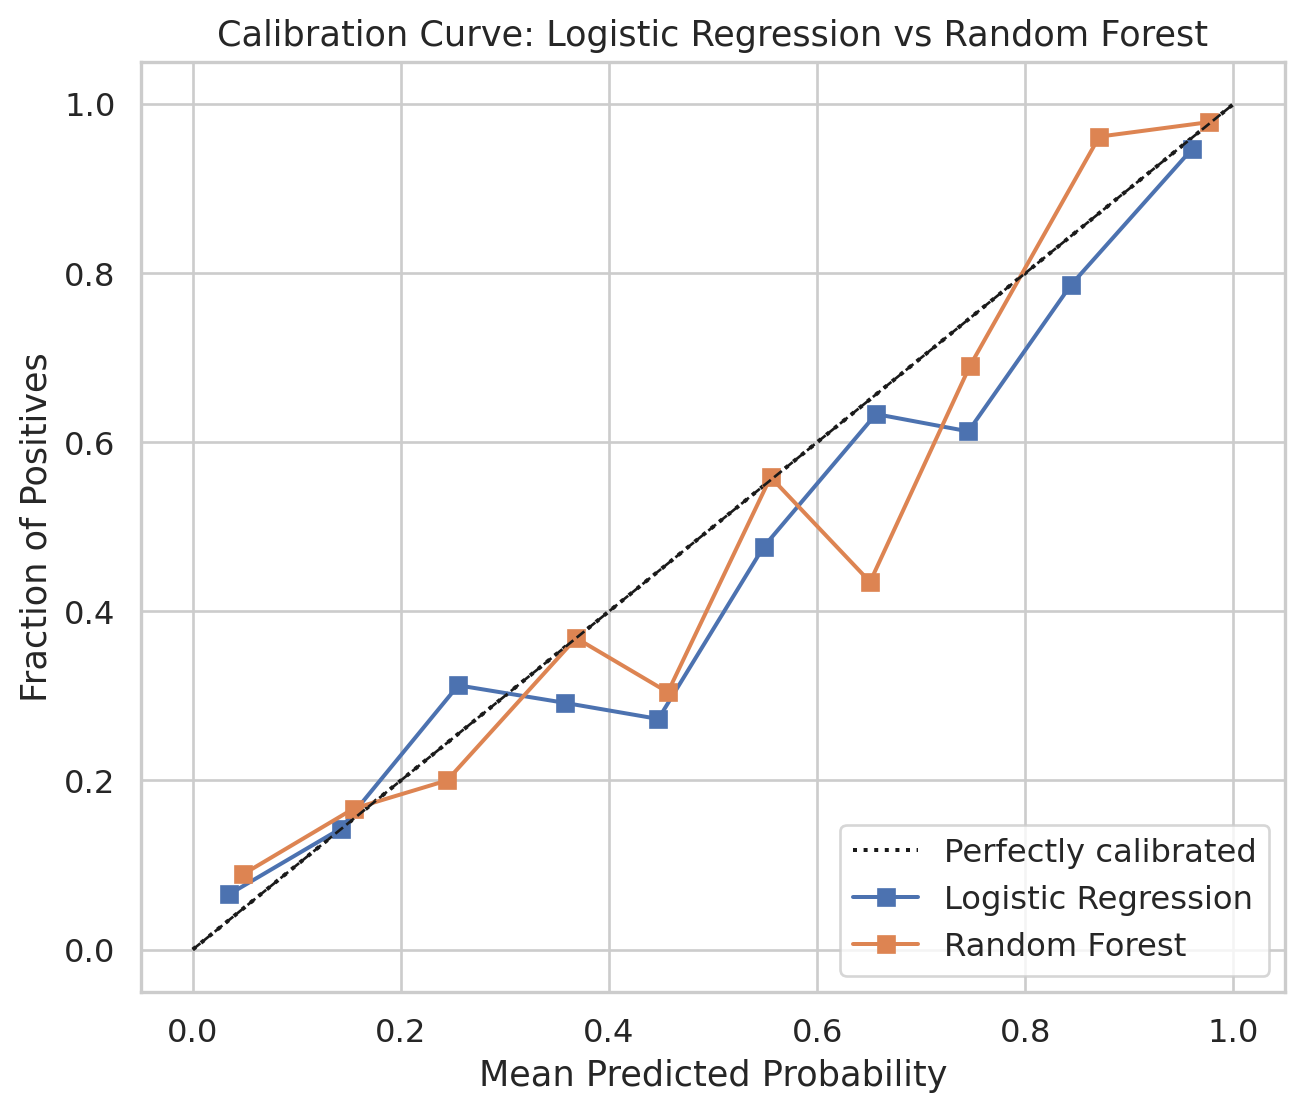
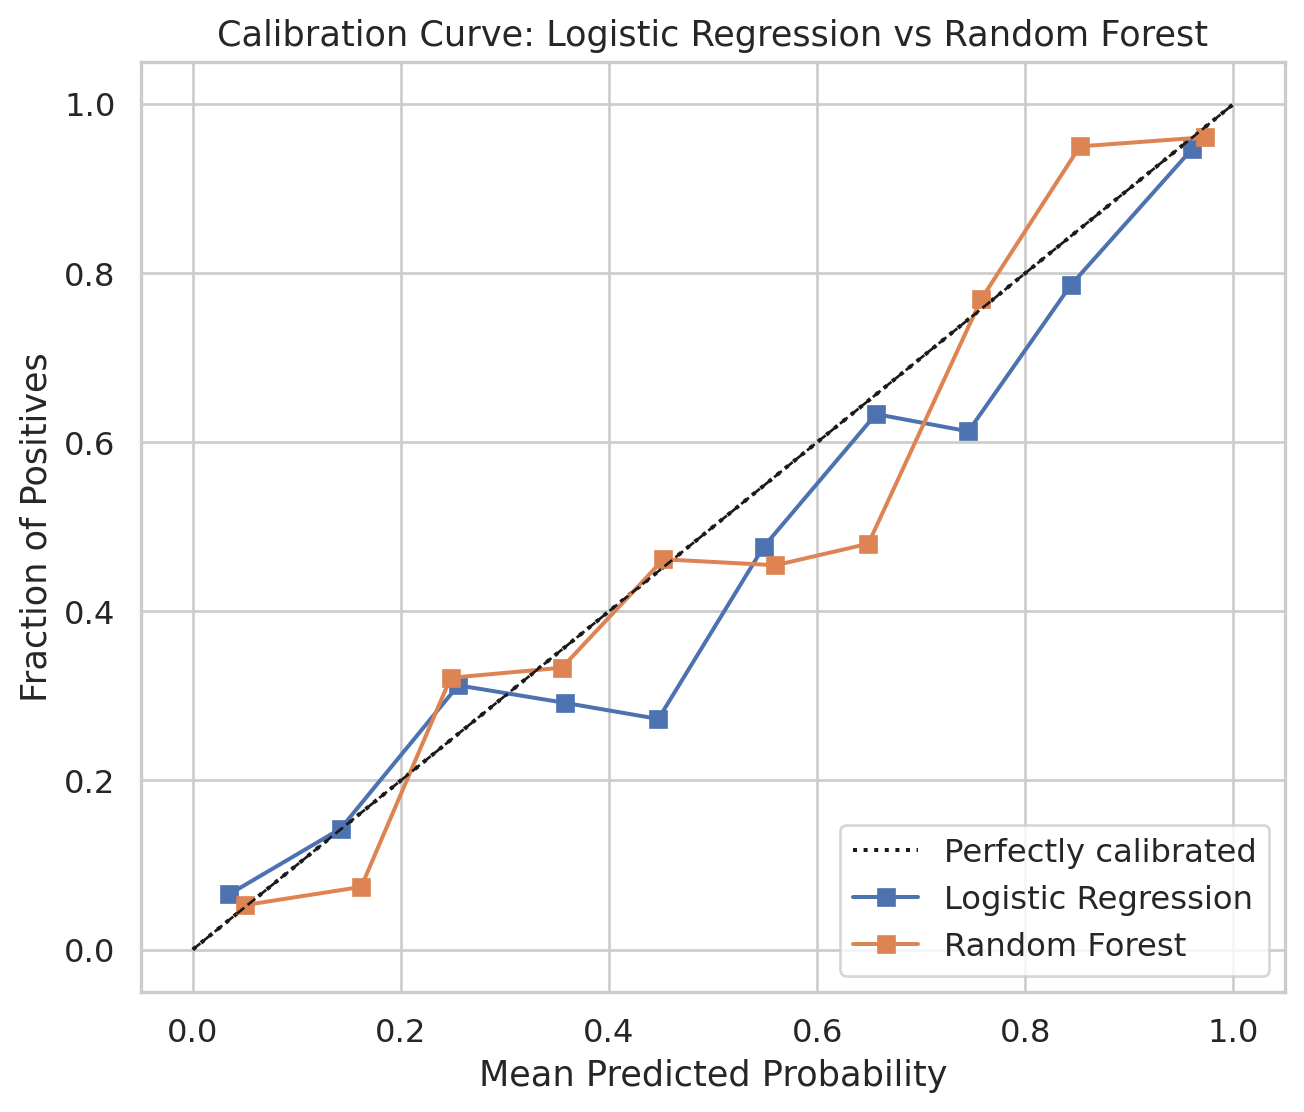
Built site for gh-pages

diff --git a/presentation.html b/presentation.html
@@ -223,7 +223,7 @@ Ava Lasater
 </section>
 <section id="correlation-matrix-of-numerical-features" class="slide level2 smaller">
 <h2>Correlation Matrix of Numerical Features</h2>
-<div id="9d9622dc" class="cell" data-fig-height="6" data-fig-responsive="false" data-fig-width="8" data-execution_count="4">
+<div id="649ab25b" class="cell" data-fig-height="6" data-fig-responsive="false" data-fig-width="8" data-execution_count="4">
 <div class="cell-output cell-output-display">
 <div class="quarto-figure quarto-figure-center">
 <figure>
@@ -264,7 +264,7 @@ Ava Lasater
 </section>
 <section id="linear-regression-results-1" class="slide level2 smaller">
 <h2>Linear Regression Results</h2>
-<div id="6fc84413" class="cell" data-fig-height="6" data-fig-responsive="false" data-fig-width="8" data-execution_count="5">
+<div id="04386299" class="cell" data-fig-height="6" data-fig-responsive="false" data-fig-width="8" data-execution_count="5">
 <div class="cell-output cell-output-stdout">
 <pre><code>Mean Squared Error: 110300510.89
 R-squared: 0.4855</code></pre>
@@ -295,7 +295,7 @@ R-squared: 0.4855</code></pre>
 </section>
 <section id="ridge-regression-results-1" class="slide level2 smaller">
 <h2>Ridge Regression Results</h2>
-<div id="8ba863f7" class="cell" data-fig-height="6" data-fig-responsive="false" data-fig-width="10" data-execution_count="6">
+<div id="58de4ee3" class="cell" data-fig-height="6" data-fig-responsive="false" data-fig-width="10" data-execution_count="6">
 <div class="cell-output cell-output-stdout">
 <pre><code>Ridge Regression:
 Mean Squared Error: 110226157.793066
@@ -329,7 +329,7 @@ R-squared: 0.48583010161522244</code></pre>
 </section>
 <section id="selectkbest-feature-selection" class="slide level2">
 <h2>SelectKBest Feature Selection</h2>
-<div id="511a160d" class="cell" data-fig-height="6" data-fig-responsive="false" data-fig-width="10" data-execution_count="7">
+<div id="0c24588c" class="cell" data-fig-height="6" data-fig-responsive="false" data-fig-width="10" data-execution_count="7">
 <div class="cell-output cell-output-display">
 <div class="quarto-figure quarto-figure-center">
 <figure>
@@ -360,7 +360,7 @@ R-squared: 0.48583010161522244</code></pre>
 </section>
 <section id="permutation-importance" class="slide level2">
 <h2>Permutation Importance</h2>
-<div id="ee01b4f7" class="cell" data-fig-height="6" data-fig-responsive="false" data-fig-width="10" data-execution_count="8">
+<div id="7f1a6c09" class="cell" data-fig-height="6" data-fig-responsive="false" data-fig-width="10" data-execution_count="8">
 <div class="cell-output cell-output-stdout">
 <pre><code>Top 15 features:</code></pre>
 </div>
@@ -394,10 +394,10 @@ R-squared: 0.48583010161522244</code></pre>
 </section>
 <section id="logistic-regression-results" class="slide level2 smaller">
 <h2>Logistic Regression Results</h2>
-<div id="4f841fb5" class="cell" data-fig-height="5" data-fig-responsive="false" data-fig-width="12" data-execution_count="9">
+<div id="f3066363" class="cell" data-fig-height="5" data-fig-responsive="false" data-fig-width="12" data-execution_count="9">
 <div class="cell-output cell-output-stdout">
 <pre><code>k-Fold F1-Score: 0.80
-k-Fold CV took 0.12 seconds
+k-Fold CV took 0.07 seconds
 
 Logistic Regression Accuracy: 0.7728813559322034
 Logistic Regression Precision: 0.7775823831391786
@@ -439,15 +439,15 @@ Logistic Regression F-1 Score: 0.7719854657317307</code></pre>
 </section>
 <section id="random-forest-results" class="slide level2 smaller">
 <h2>Random Forest Results</h2>
-<div id="f853971b" class="cell" data-fig-height="5" data-fig-responsive="false" data-fig-width="12" data-execution_count="10">
+<div id="8728d069" class="cell" data-fig-height="5" data-fig-responsive="false" data-fig-width="12" data-execution_count="10">
 <div class="cell-output cell-output-stdout">
 <pre><code>Random Forest Cross Validation
 k-Fold F1-Score: 0.81
-k-Fold CV took 1.13 seconds
-Random Forest Accuracy: 0.7762711864406779
-Random Forest Precision: 0.7781730280855547
-Random Forest Recall: 0.7762711864406779
-Random Forest F-1 Score: 0.7759313608470364</code></pre>
+k-Fold CV took 1.09 seconds
+Random Forest Accuracy: 0.7559322033898305
+Random Forest Precision: 0.7567320159337655
+Random Forest Recall: 0.7559322033898305
+Random Forest F-1 Score: 0.7557750589291727</code></pre>
 </div>
 <div class="cell-output cell-output-display">
 <div class="quarto-figure quarto-figure-center">
@@ -460,7 +460,7 @@ Random Forest F-1 Score: 0.7759313608470364</code></pre>
 </section>
 <section id="calibration-probabilities-vs.-accuracy" class="slide level2 smaller">
 <h2>Calibration: Probabilities vs.&nbsp;Accuracy</h2>
-<div id="f161ffc2" class="cell" data-fig-height="6" data-fig-responsive="false" data-fig-width="7" data-execution_count="11">
+<div id="4a4f608f" class="cell" data-fig-height="6" data-fig-responsive="false" data-fig-width="7" data-execution_count="11">
 <div class="cell-output cell-output-display">
 <div class="quarto-figure quarto-figure-center">
 <figure>
